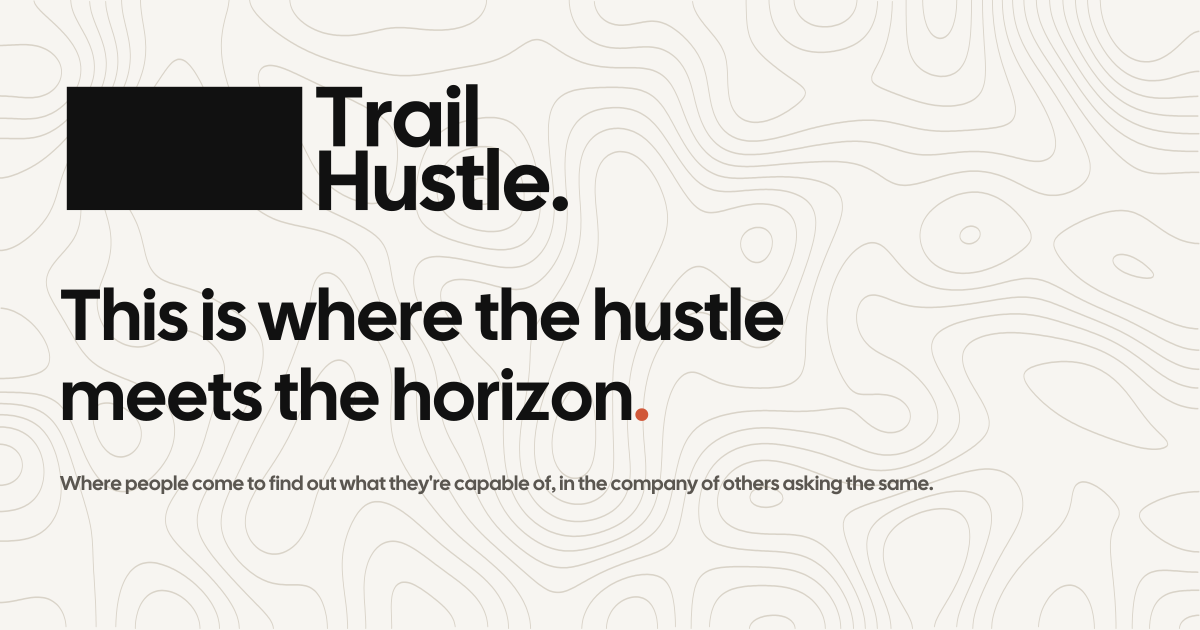
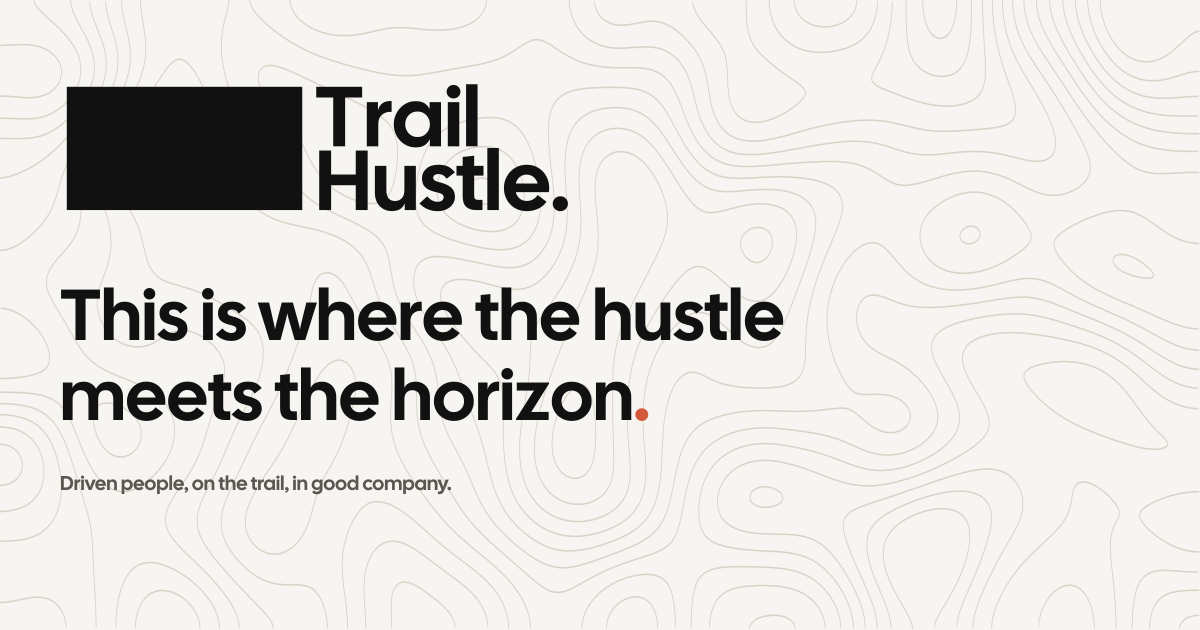
Site update

Changed region(s): [[0.0308, 0.754, 0.7708, 0.7841]]

diff --git a/src/config.ts b/src/config.ts
@@ -22,4 +22,4 @@ export const SITE_URL = "https://trailhustle.com";
 export const SITE_NAME = "Trail Hustle";
 export const SITE_TITLE = "Trail Hustle — This is where the hustle meets the horizon.";
 export const SITE_DESCRIPTION =
-  "A community built as a training ground. Find out what you're capable of, in the company of others asking the same.";
+  "The third place — not work, not home, but the place that makes both better. Driven people, on the trail, in good company.";
